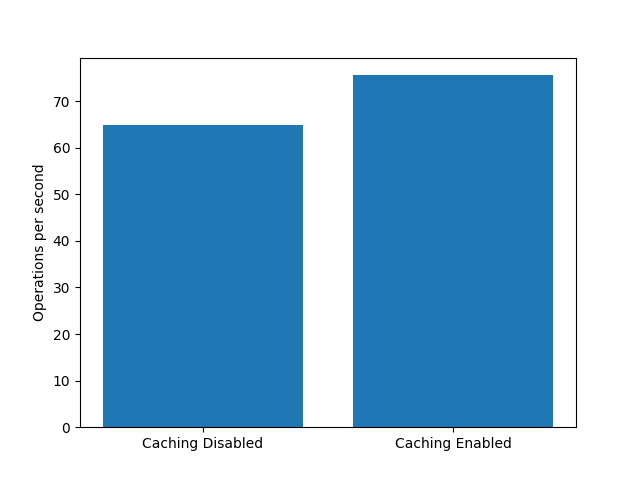
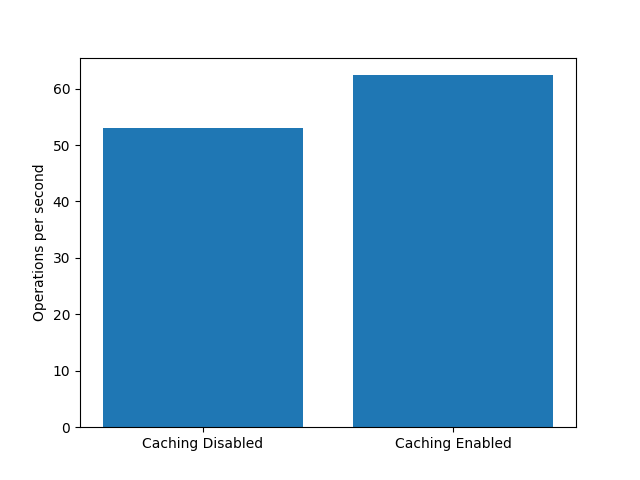
update chart

diff --git a/pa2/plots.py b/pa2/plots.py
@@ -3,7 +3,7 @@ from numpy import genfromtxt
 import numpy as np
 
 if __name__ == '__main__':
-    execution_time = [2.7746 , 2.3825]
+    execution_time = [3.3903 , 2.88562]
     operations_per_sec = [180 / e for e in execution_time]
     bars = ('Caching Disabled', 'Caching Enabled')
     y_pos = np.arange(len(bars))
